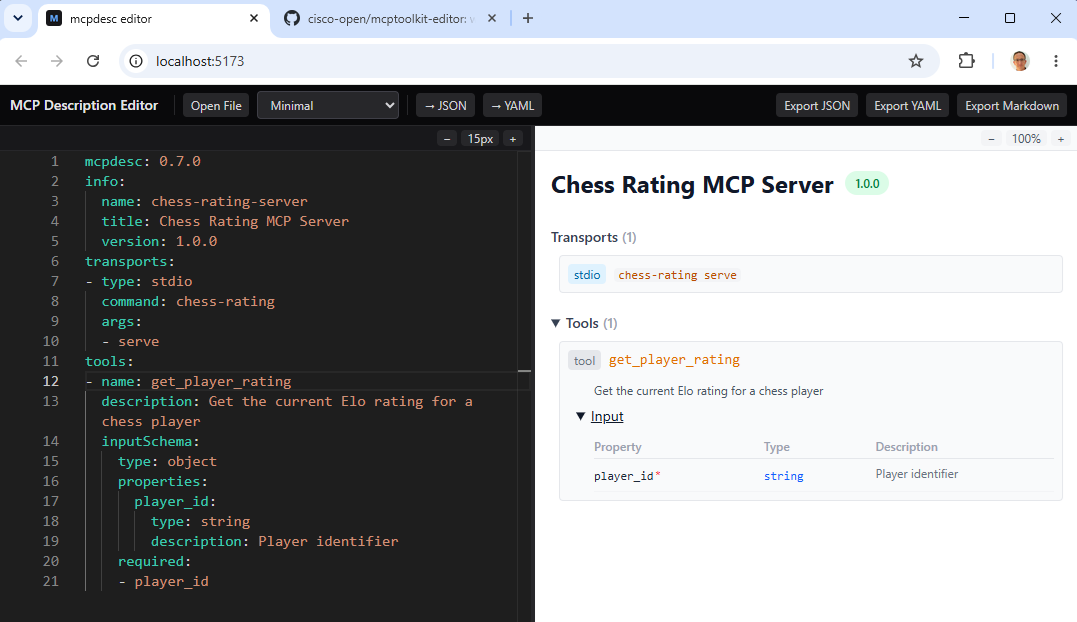
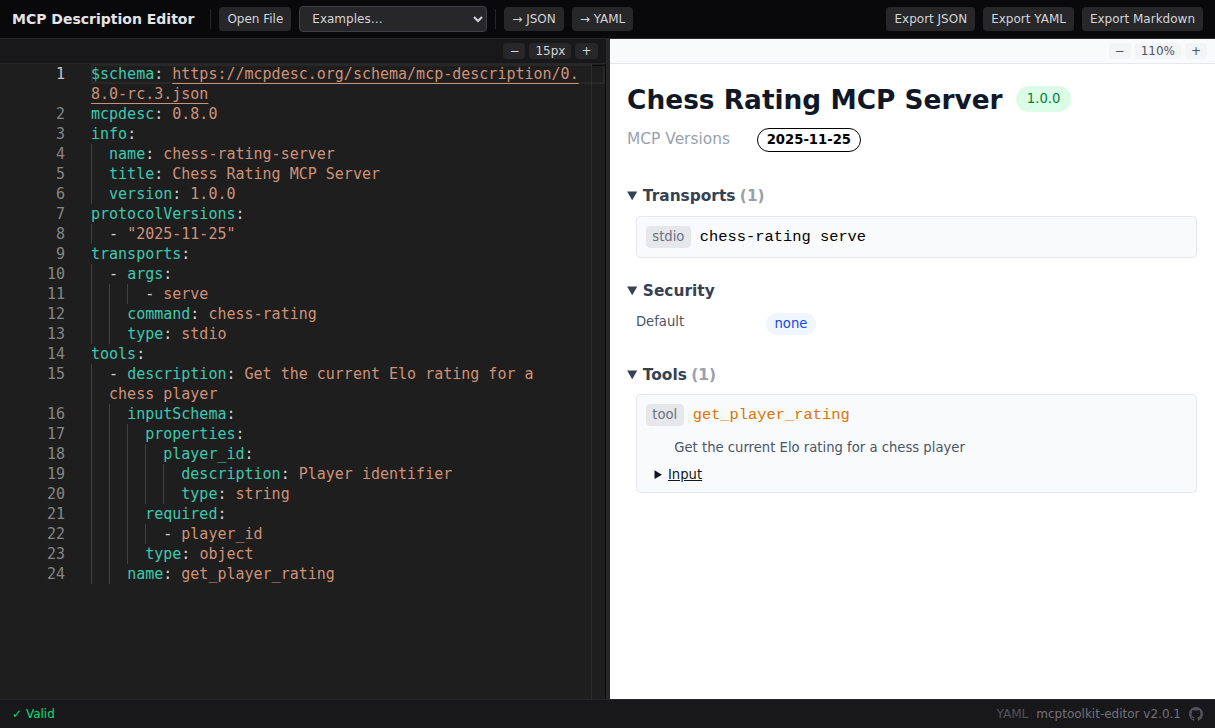
Release v2.0.1

diff --git a/packages/mcptoolkit-viewer/src/index.tsx b/packages/mcptoolkit-viewer/src/index.tsx
@@ -204,7 +204,7 @@ export function McpToolkitViewer(options: McpToolkitViewerOptions): McpToolkitVi
 }
 
 // Package version
-export const version = '2.0.0';
+export const version = '2.0.1';
 
 // Re-export for consumers
 export { McpDescCardView } from './McpDescCardView';

diff --git a/README.md b/README.md
@@ -3,15 +3,18 @@
 A web-based editor for [MCP Description](#the-mcp-description-mcpdesc-format) documents.
 
 [![License: Apache-2.0](https://img.shields.io/badge/License-Apache_2.0-blue.svg)](LICENSE)
-[![Status: release](https://img.shields.io/badge/status-2.0.0-brightgreen.svg)](CHANGELOG.md)
+[![Status: release](https://img.shields.io/badge/status-2.0.1-brightgreen.svg)](CHANGELOG.md)
 [![TypeScript](https://img.shields.io/badge/TypeScript-5.x-blue.svg)](https://www.typescriptlang.org/)
 [![mcpdesc](https://img.shields.io/endpoint?url=https://mcpdesc.org/badge/0.8.0.json)](https://mcpdesc.org)
 
-The current 2.x editor targets MCP Description 0.8. Documents authored for 0.7
-are automatically migrated one-way to 0.8 when opened. For native MCP
-Description 0.7 support, use the maintained
-[`v1/main` branch](https://github.com/cisco-open/mcptoolkit-editor/tree/v1/main)
-and the latest 1.x release.
+## Version Support
+
+> **Current: `main` / 2.x / MCP Description 0.8**
+>
+> Documents authored for MCP Description 0.7 are automatically migrated
+> one-way to 0.8 when opened. For native 0.7 support, use the maintained
+> [`v1/main` branch](https://github.com/cisco-open/mcptoolkit-editor/tree/v1/main)
+> and the latest 1.x release.
 
 - **Monaco Editor** — JSON Schema-driven autocomplete, inline squiggles, folding, and syntax highlighting for JSON and YAML
 - **Real-time validation** — CSP-safe structural and semantic validation against MCP Description `0.8.0-rc.3`

diff --git a/CHANGELOG.md b/CHANGELOG.md
@@ -13,6 +13,7 @@ Format follows [Keep a Changelog](https://keepachangelog.com/en/1.1.0/). This pr
 <!-- toc -->
 
 - [Unreleased](#unreleased)
+- [[2.0.1] — 2026-09-07](#201--2026-09-07)
 - [[2.0.0] — 2026-09-07](#200--2026-09-07)
 - [[2.0.0-rc.1] — 2026-09-04](#200-rc1--2026-09-04)
 - [[1.1.0-rc.2] — 2026-07-08](#110-rc2--2026-07-08)
@@ -25,6 +26,19 @@ Format follows [Keep a Changelog](https://keepachangelog.com/en/1.1.0/). This pr
 <!-- tocstop -->
 
 ## Unreleased
+
+## [2.0.1] — 2026-09-07
+
+### Changed
+
+- Make the `main` 2.x and `v1/main` maintenance support policy prominent in the
+  README and refresh its editor screenshot for MCP Description 0.8.
+
+### Security
+
+- Update transitive dependencies to resolve all reported npm audit findings in
+  `brace-expansion`, `browserslist`, `fast-uri`, `js-yaml`, `nanoid`, and
+  `postcss`.
 
 ## [2.0.0] — 2026-09-07
 

diff --git a/packages/mcptoolkit-viewer/CHANGELOG.md b/packages/mcptoolkit-viewer/CHANGELOG.md
@@ -7,6 +7,7 @@ Format follows [Keep a Changelog](https://keepachangelog.com/en/1.1.0/). This pr
 <!-- toc -->
 
 - [Unreleased](#unreleased)
+- [[2.0.1] — 2026-09-07](#201--2026-09-07)
 - [[2.0.0] — 2026-09-07](#200--2026-09-07)
 - [[2.0.0-rc.1] — 2026-09-04](#200-rc1--2026-09-04)
 - [[1.0.0] — 2026-07-07](#100--2026-07-07)
@@ -17,6 +18,13 @@ Format follows [Keep a Changelog](https://keepachangelog.com/en/1.1.0/). This pr
 <!-- tocstop -->
 
 ## Unreleased
+
+## [2.0.1] — 2026-09-07
+
+### Security
+
+- Rebuild the viewer after updating transitive dependencies to patched versions
+  with no reported npm audit findings.
 
 ## [2.0.0] — 2026-09-07
 

diff --git a/packages/mcptoolkit-editor-dist/CHANGELOG.md b/packages/mcptoolkit-editor-dist/CHANGELOG.md
@@ -10,6 +10,13 @@ Format follows [Keep a Changelog](https://keepachangelog.com/en/1.1.0/). This pa
 
 ## Unreleased
 
+## [2.0.1] — 2026-09-07
+
+### Security
+
+- Rebuild the editor bundle after updating transitive dependencies to patched
+  versions with no reported npm audit findings.
+
 ## [2.0.0] — 2026-09-07
 
 ### Changed
